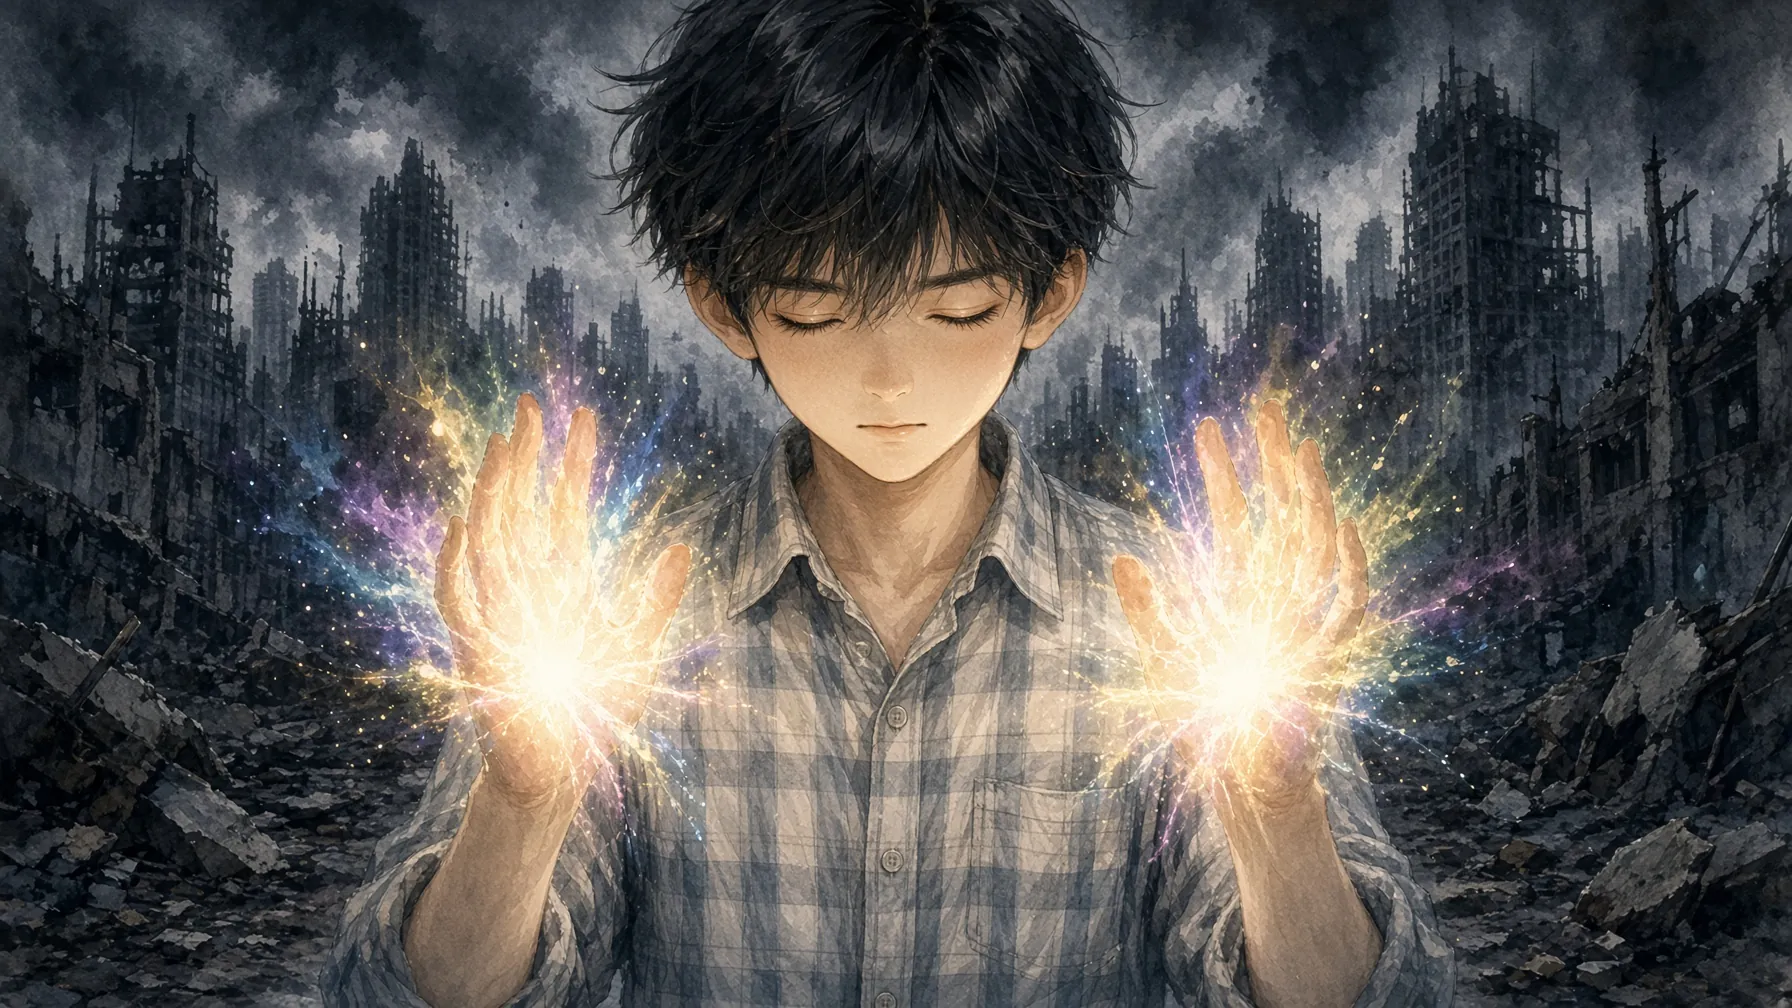
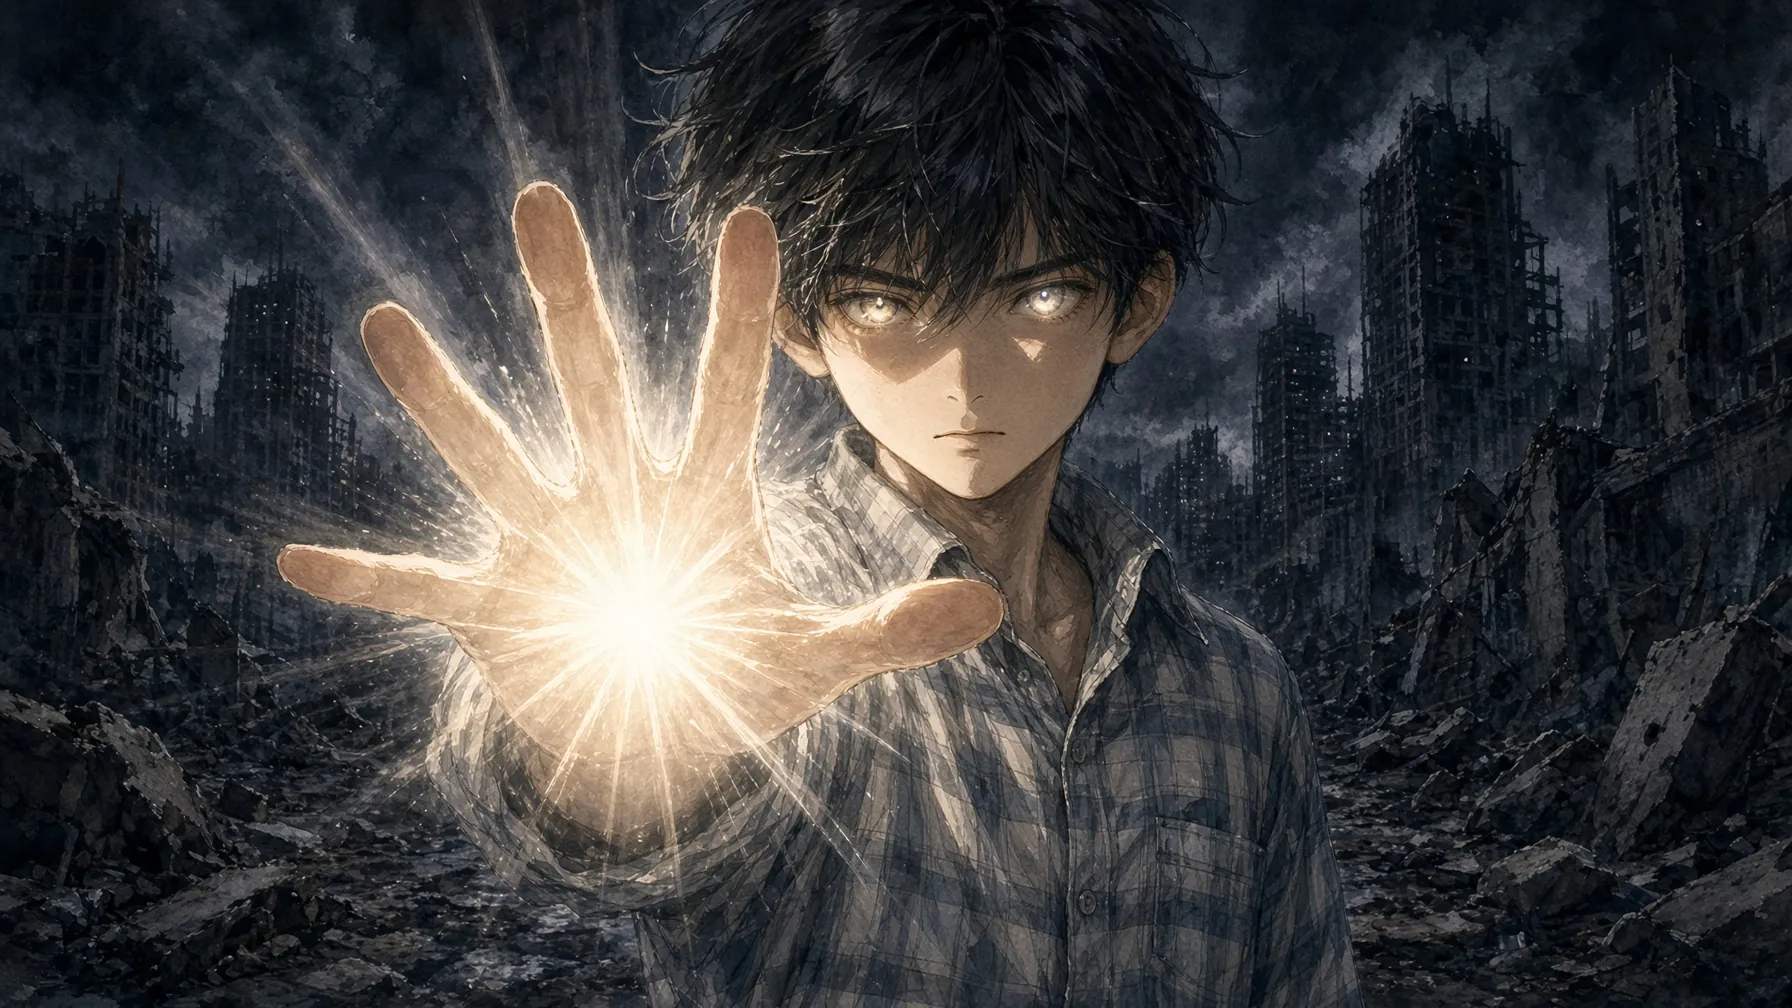
문유선 스킬 2종 추가·구현, 서성민 컷인 1-3 교체, 문유선_2 컷인

diff --git a/js/skills.js b/js/skills.js
@@ -57,6 +57,7 @@ export const STATUS = {
   regen:   { icon: '💚', label: '재생', desc: '매 턴 시작 시 HP 회복' },
   noheal:  { icon: '🚫', label: '회복 불가', debuff: true, desc: 'HP가 회복되지 않음' },
   decoy:   { icon: '🪞', label: '대신 맞기', desc: '이 카드를 향한 기본 공격을 상대 카드가 대신 맞음' },
+  pleading:{ icon: '🛡', label: '꼭 이래야해?', desc: '피해 50% 감면, 반격 250%, 종료 시 HP 30% 회복' },
   seed:    { icon: '🌱', label: '쾌락의 씨앗', desc: '종료 시 HP 5% 회복' },
   mod:     { icon: '', label: '' },
 };
@@ -137,6 +138,7 @@ export function skillDamage(src, target, pct, { ignoreDef = 0, extra = 1 } = {})
 export function damageUnit(target, dmg, src = null, { silent = false } = {}) {
   if (!target.owner.field.includes(target)) return 0;
   if (target.st.immune) { emit({ type: 'immune', unit: target }); return 0; }
+  if (target.st.pleading) dmg = Math.round(dmg * 0.5);
   target.hp -= dmg;
   if (!silent) emit({ type: 'dmg', unit: target, dmg });
   if (src && src.hp > 0 && hasPassive(src, '우습네요') && heal(src, Math.round(dmg * 0.3), '흡혈')) stats.count('우습네요');
@@ -172,6 +174,16 @@ export function damageHero(p, dmg, srcOwner, kind = 'hit', srcUnit = null) {
 export function checkDeath(u, killer = null) {
   const p = u.owner;
   if (u.hp > 0 || !p.field.includes(u)) return false;
+  // 제발…그만 (문유선): 사망 시 1회 부활, HP 100%, 디버프 제거, 1턴 면역 + 도발
+  if (hasPassive(u, '제발…그만') && !u.fired['제발…그만']) {
+    u.fired['제발…그만'] = 1; stats.count('제발…그만');
+    emit({ type: 'passive', unit: u, name: '제발…그만', skill: (u.sk || []).find(s => s.name === '제발…그만') });
+    for (const [k, s] of Object.entries(u.st)) if (STATUS[s.kind]?.debuff || s.atk < 0 || s.def < 0) delete u.st[k];
+    u.curse = 0; u.hp = u.maxHp;
+    addStatus(u, 'immune', 1, {}, 'immune'); addStatus(u, 'taunt', 1, {}, 'taunt');
+    emit({ type: 'heal', unit: u, amt: u.maxHp, why: '제발…그만' }); refreshAll(p);
+    return false;
+  }
   p.field.splice(p.field.indexOf(u), 1);
   p.grave.push(u.base);
   p.lastDead = u.base;
@@ -327,6 +339,7 @@ export const ACTIVE = {
   '너의 이름은?': (u, p, f) => { const t = by(live(f), x => x.base.MOR || 0, -1); if (t && chance(0.4) && addStatus(t, 'para', 2, {}, 'para')) addStatus(t, '너의 이름은?', 2, { def: -0.15, label: 'DEF -15%' }, 'mod'); else emit({ type: 'miss', unit: u, text: '확률 실패' }); },
   '달빛 아래 파멸의 포옹': (u, p, f) => hitAll(u, f, 2, 0.2),
   '은은한 베일의 재앙': (u, p, f) => { const top = by(live(f), x => x.card.ATK, -1); hitAll(u, f, 2, 0.3); if (top && f.field.includes(top)) { damageUnit(top, skillDamage(u, top, 0.2), u); checkDeath(top, u); } },
+  '꼭 이래야해?': u => { addStatus(u, 'taunt', 1, {}, 'taunt'); addStatus(u, 'pleading', 1, {}, 'pleading'); },
   '쾌락의 씨앗': u => { addStatus(u, 'taunt', 1, {}, 'taunt'); addStatus(u, 'immune', 1, {}, 'immune'); addStatus(u, 'seed', 1, {}, 'seed'); },
   '광기의 신음': (u, p, f) => live(f).forEach(t => addStatus(t, 'dot', 3, { pct: 0.05, minOne: true, label: '광기의 신음' }, 'dot')),
   '이리 올래?': (u, p, f) => males(f).forEach(t => chance(0.4) && addStatus(t, 'para', 1, {}, 'para')),
@@ -385,7 +398,7 @@ export function redirectAttack(attacker, target) {
   }
   return { target };
 }
-export const counterMult = (target, attacker) => hasPassive(target, '이게 반격이야') ? 1.5 : 1;
+export const counterMult = (target, attacker) => (target.st.pleading ? 2.5 : 1) * (hasPassive(target, '이게 반격이야') ? 1.5 : 1);
 
 // ---- 스킬 사용 가능 여부 ----
 export function skillState(u, s) {
@@ -496,7 +509,7 @@ export function turnEnd(p) {
   // 상태 지속 감소 (자기 턴 종료 기준)
   for (const u of p.field) {
     if (u.paraBlock) u.paraBlock--;
-    for (const [k, s] of Object.entries(u.st)) if (--s.t <= 0) { delete u.st[k]; if (k === 'seed') heal(u, u.maxHp * 0.05, '쾌락의 씨앗'); if (k === 'para') u.paraBlock = 2; emit({ type: 'expire', unit: u, key: k }); }
+    for (const [k, s] of Object.entries(u.st)) if (--s.t <= 0) { delete u.st[k]; if (k === 'seed') heal(u, u.maxHp * 0.05, '쾌락의 씨앗'); if (k === 'pleading') heal(u, u.maxHp * 0.3, '꼭 이래야해?'); if (k === 'para') u.paraBlock = 2; emit({ type: 'expire', unit: u, key: k }); }
   }
   for (const [k, s] of Object.entries(p.st)) if (--s.t <= 0) delete p.st[k];
   if (p.actionLock > 0) p.actionLock--;
